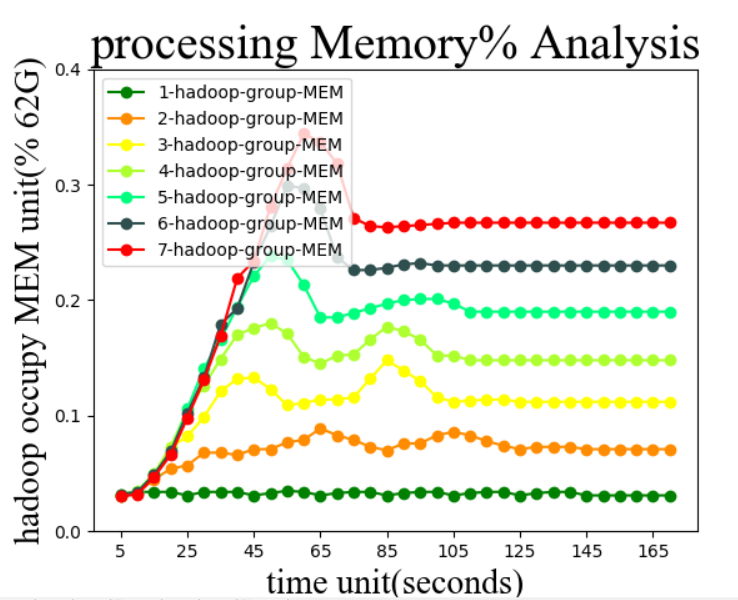
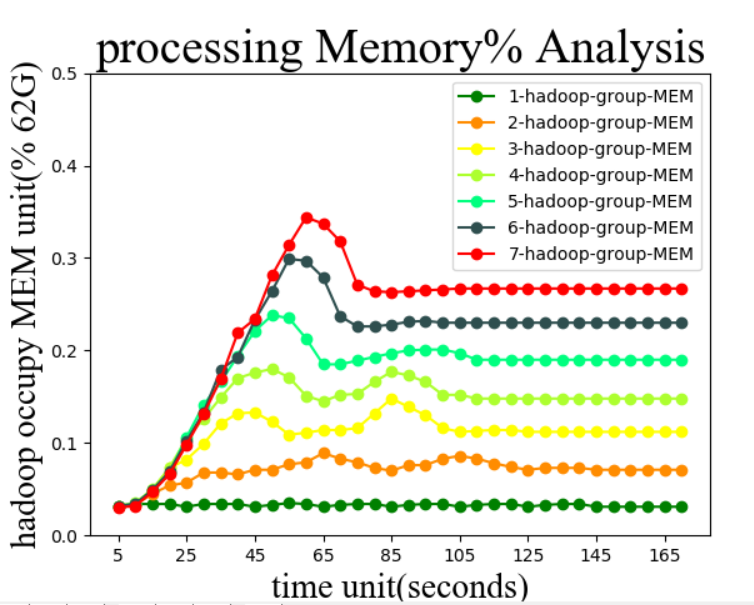
add long run result

Changed region(s): [[0.0, 0.03, 0.9661, 1.0]]

diff --git a/multi_group_memory_long_run_contrast.py b/multi_group_memory_long_run_contrast.py
@@ -1,0 +1,49 @@
+import numpy as np
+import matplotlib.pyplot as plt
+
+t = range(5,175,5)
+MEM_1 = [0.292, 0.295, 0.296, 0.292, 0.292, 0.293, 0.293, 0.294, 0.292, 0.294, 0.294, 0.294, 0.293, 0.294, 0.294, 0.295, 0.294, 0.295, 0.295, 0.295, 0.294, 0.295, 0.295, 0.296, 0.295, 0.296, 0.296, 0.293, 0.292, 0.292, 0.292, 0.292, 0.292, 0.292]
+MEM_2 = [0.292, 0.299, 0.295, 0.302, 0.304, 0.304, 0.304, 0.295, 0.292, 0.293, 0.298, 0.301, 0.303, 0.303, 0.303, 0.3, 0.292, 0.3, 0.297, 0.3, 0.303, 0.304, 0.306, 0.299, 0.296, 0.294, 0.295, 0.295, 0.296, 0.292, 0.292, 0.292, 0.292, 0.292]
+MEM_3 = [0.294, 0.304, 0.3, 0.314, 0.324, 0.319, 0.314, 0.299, 0.294, 0.302, 0.302, 0.31, 0.318, 0.317, 0.316, 0.301, 0.298, 0.295, 0.298, 0.298, 0.298, 0.295, 0.295, 0.295, 0.295, 0.295, 0.295, 0.295, 0.295, 0.295, 0.295, 0.293, 0.293, 0.293]
+MEM_4 = [0.294, 0.303, 0.308, 0.328, 0.348, 0.334, 0.323, 0.303, 0.293, 0.304, 0.302, 0.307, 0.315, 0.315, 0.315, 0.313, 0.293, 0.293, 0.293, 0.293, 0.293, 0.293, 0.293, 0.293, 0.293, 0.293, 0.293, 0.293, 0.293, 0.293, 0.293, 0.293, 0.293, 0.293]
+MEM_5 = [0.293, 0.304, 0.309, 0.32, 0.337, 0.337, 0.337, 0.327, 0.295, 0.294, 0.299, 0.3, 0.303, 0.308, 0.309, 0.307, 0.303, 0.296, 0.293, 0.293, 0.293, 0.293, 0.293, 0.293, 0.293, 0.293, 0.293, 0.293, 0.293, 0.293, 0.293, 0.293, 0.293, 0.293]
+MEM_6 = [0.291, 0.311, 0.312, 0.345, 0.369, 0.347, 0.357, 0.327, 0.292, 0.3, 0.292, 0.296, 0.296, 0.295, 0.294, 0.292, 0.292, 0.292, 0.292, 0.292, 0.292, 0.292, 0.292, 0.292, 0.292, 0.292, 0.292, 0.292, 0.292, 0.292, 0.292, 0.292, 0.292, 0.292]
+MEM_7 = [0.292, 0.292, 0.313, 0.317, 0.353, 0.402, 0.374, 0.354, 0.311, 0.292, 0.289, 0.289, 0.289, 0.289, 0.289, 0.289, 0.289, 0.289, 0.289, 0.289, 0.289, 0.289, 0.289, 0.289, 0.289, 0.289, 0.289, 0.289, 0.289, 0.289, 0.289, 0.289, 0.289, 0.289]
+
+font1 = {
+'family' : 'Times New Roman',
+'weight' : 'normal',
+'size'   : 28,
+}
+
+font2 = {
+'family' : 'Times New Roman',
+'weight' : 'normal',
+'size'   : 20,
+}
+
+plt.title('long run processing Memory% Analysis',font1)
+l1, = plt.plot(t,MEM_1,color='green',marker="o",label='1 hadoop group')
+l2, = plt.plot(t,MEM_2,color='darkorange',marker="o",label='2 hadoop group')
+l3, = plt.plot(t,MEM_3,color='yellow',marker="o",label='3 hadoop group')
+l4, = plt.plot(t,MEM_4,color='greenyellow',marker="o",label='4 hadoop group')
+l5, = plt.plot(t,MEM_5,color='springgreen',marker="o",label='5 hadoop group')
+l6, = plt.plot(t,MEM_6,color='darkslategrey',marker="o",label='6 hadoop group')
+l7, = plt.plot(t,MEM_7,color='red',marker="o",label='7 hadoop group')
+#l2, = plt.plot(x2,multi,color='red',label='multi hadoop group')
+
+# color: darkorange lightcoral darkgoldenrod yellow greenyellow springgreen darkslategrey deepskyblue fushsia blue
+
+x_ticks = np.arange(5,175,20)
+y_ticks = np.arange(0.25,0.5,0.1)
+
+plt.legend(handles=[l1,l2,l3,l4,l5,l6,l7],labels=['1-hadoop-group-MEM','2-hadoop-group-MEM','3-hadoop-group-MEM','4-hadoop-group-MEM','5-hadoop-group-MEM','6-hadoop-group-MEM','7-hadoop-group-MEM'],loc="best")
+plt.xlabel('time unit(seconds)',font2)
+plt.ylabel('hadoop occupy MEM unit(% 62G)',font2)
+
+plt.xticks(x_ticks)
+plt.yticks(y_ticks)
+
+#plt.savefig('.MEM%.png')
+
+plt.show()

diff --git a/multi_group_cpu_long_run_contrast.py b/multi_group_cpu_long_run_contrast.py
@@ -1,0 +1,48 @@
+import numpy as np
+import matplotlib.pyplot as plt
+
+t = range(5,175,5)
+CPU_1 = [0.33, 1.8, 1.89, 1.488, 0.322, 1.496, 1.5, 1.514, 0.81, 1.703, 2.174, 2.355, 1.446, 2.063, 2.392, 2.383, 2.047, 2.401, 2.43, 2.398, 2.228, 2.296, 2.206, 1.942, 2.523, 2.258, 2.663, 1.603, 0.38, 0.34, 0.323, 0.384, 0.356, 0.359]
+CPU_2 = [0.358, 4.275, 3.572, 3.444, 0.95, 0.401, 0.562, 2.326, 0.33, 2.498, 2.816, 3.772, 0.598, 0.756, 1.921, 1.366, 0.409, 4.872, 3.499, 3.489, 0.818, 0.892, 2.459, 1.371, 1.348, 2.049, 2.38, 2.509, 2.491, 0.322, 0.359, 0.366, 0.356, 0.321]
+CPU_3 = [0.351, 5.852, 5.201, 4.962, 7.174, 2.846, 2.187, 3.433, 0.347, 5.652, 4.945, 5.367, 2.065, 0.574, 0.821, 4.52, 2.111, 0.36, 2.339, 2.201, 2.155, 0.33, 0.321, 0.339, 0.369, 0.371, 0.345, 0.321, 0.343, 0.415, 0.353, 0.353, 0.353, 0.353]
+CPU_4 = [0.516, 6.266, 7.361, 8.066, 14.773, 7.225, 5.703, 5.724, 0.368, 6.182, 5.946, 4.415, 1.304, 0.859, 2.68, 4.391, 0.32, 0.325, 0.349, 0.35, 0.331, 0.329, 0.331, 0.375, 0.374, 0.353, 0.333, 0.333, 0.333, 0.333, 0.333, 0.333, 0.333, 0.333]
+CPU_5 = [0.322, 5.097, 7.227, 8.07, 2.842, 2.794, 6.655, 5.278, 1.49, 0.357, 4.388, 4.218, 3.58, 4.454, 3.229, 2.778, 2.243, 2.402, 0.331, 0.371, 0.358, 0.33, 0.338, 0.313, 0.349, 0.346, 0.366, 0.32, 0.32, 0.32, 0.32, 0.32, 0.32, 0.32]
+CPU_6 = [0.356, 10.589, 10.522, 11.36, 8.255, 0.584, 8.784, 2.707, 5.32, 2.816, 0.388, 2.214, 2.307, 2.458, 2.107, 0.374, 0.399, 0.374, 0.341, 0.34, 0.353, 0.354, 0.349, 0.357, 0.35, 0.35, 0.35, 0.35, 0.35, 0.35, 0.35, 0.35, 0.35, 0.35]
+CPU_7 = [0.355, 0.486, 10.794, 11.838, 10.079, 15.143, 14.092, 12.506, 7.551, 2.382, 0.595, 0.365, 0.331, 0.346, 0.366, 0.347, 0.334, 0.323, 0.33, 0.33, 0.33, 0.33, 0.33, 0.33, 0.33, 0.33, 0.33, 0.33, 0.33, 0.33, 0.33, 0.33, 0.33, 0.33]
+
+font1 = {
+'family' : 'Times New Roman',
+'weight' : 'normal',
+'size'   : 28,
+}
+
+font2 = {
+'family' : 'Times New Roman',
+'weight' : 'normal',
+'size'   : 20,
+}
+
+plt.title('long run processing CPU% Analysis',font1)
+l1, = plt.plot(t,CPU_1,color='green',marker="o",label='1 hadoop group')
+l2, = plt.plot(t,CPU_2,color='darkorange',marker="o",label='2 hadoop group')
+l3, = plt.plot(t,CPU_3,color='yellow',marker="o",label='3 hadoop group')
+l4, = plt.plot(t,CPU_4,color='greenyellow',marker="o",label='4 hadoop group')
+l5, = plt.plot(t,CPU_5,color='springgreen',marker="o",label='5 hadoop group')
+l6, = plt.plot(t,CPU_6,color='darkslategrey',marker="o",label='6 hadoop group')
+l7, = plt.plot(t,CPU_7,color='red',marker="o",label='7 hadoop group')
+#l2, = plt.plot(x2,multi,color='red',label='multi hadoop group')
+# color: darkorange lightcoral darkgoldenrod yellow greenyellow springgreen darkslategrey deepskyblue fushsia blue
+
+x_ticks = np.arange(5,175,10)
+y_ticks = np.arange(0,25,5)
+
+plt.legend(handles=[l1,l2,l3,l4,l5,l6,l7],labels=['1-hadoop-group-CPU','2-hadoop-group-CPU','3-hadoop-group-CPU','4-hadoop-group-CPU','5-hadoop-group-CPU','6-hadoop-group-CPU','7-hadoop-group-CPU'],loc="best")
+plt.xlabel('time unit(seconds)',font2)
+plt.ylabel('hadoop occupy CPU unit(% 32Processor)',font2)
+
+plt.xticks(x_ticks)
+plt.yticks(y_ticks)
+
+#plt.savefig('.CPU%.png')
+
+plt.show()

diff --git a/multi_group_time_long_run_contrast.py b/multi_group_time_long_run_contrast.py
@@ -4,8 +4,7 @@ import matplotlib.pyplot as plt
 x1 = [1,2,3,4,5,6,7,8,9,10]
 single = [21.314,42.573,63.922,85.241,106.107,127.412,148.722,170.032,191.343,212.658]
 x2 = [1,2,3,4,5,6,7,8,9,10]
-multi = [21.326,55.548,54.235,52.982,55.063,59.871,62.999,85.377,106.564,101.499]
-
+multi = [21.308,44.21,46.562,51.364,52.063,55.871,62.365,85.377,106.564,101.499]
 
 font1 = {
 'family' : 'Times New Roman',
@@ -19,7 +18,7 @@ font2 = {
 'size'   : 20,
 }
 
-plt.title('processing time Analysis',font1)
+plt.title('long run processing time Analysis',font1)
 l1, = plt.plot(x1,single,color='green',marker="o",label='single hadoop group')
 l2, = plt.plot(x2,multi,color='red',marker="o",label='multi hadoop group')
 

diff --git a/multi_group_memory_contrast.py b/multi_group_memory_contrast.py
@@ -35,7 +35,7 @@ l7, = plt.plot(t,MEM_7,color='red',marker="o",label='7 hadoop group')
 # color: darkorange lightcoral darkgoldenrod yellow greenyellow springgreen darkslategrey deepskyblue fushsia blue
 
 x_ticks = np.arange(5,175,20)
-y_ticks = np.arange(0,0.5,0.1)
+y_ticks = np.arange(0,0.6,0.1)
 
 plt.legend(handles=[l1,l2,l3,l4,l5,l6,l7],labels=['1-hadoop-group-MEM','2-hadoop-group-MEM','3-hadoop-group-MEM','4-hadoop-group-MEM','5-hadoop-group-MEM','6-hadoop-group-MEM','7-hadoop-group-MEM'],loc="best")
 plt.xlabel('time unit(seconds)',font2)
